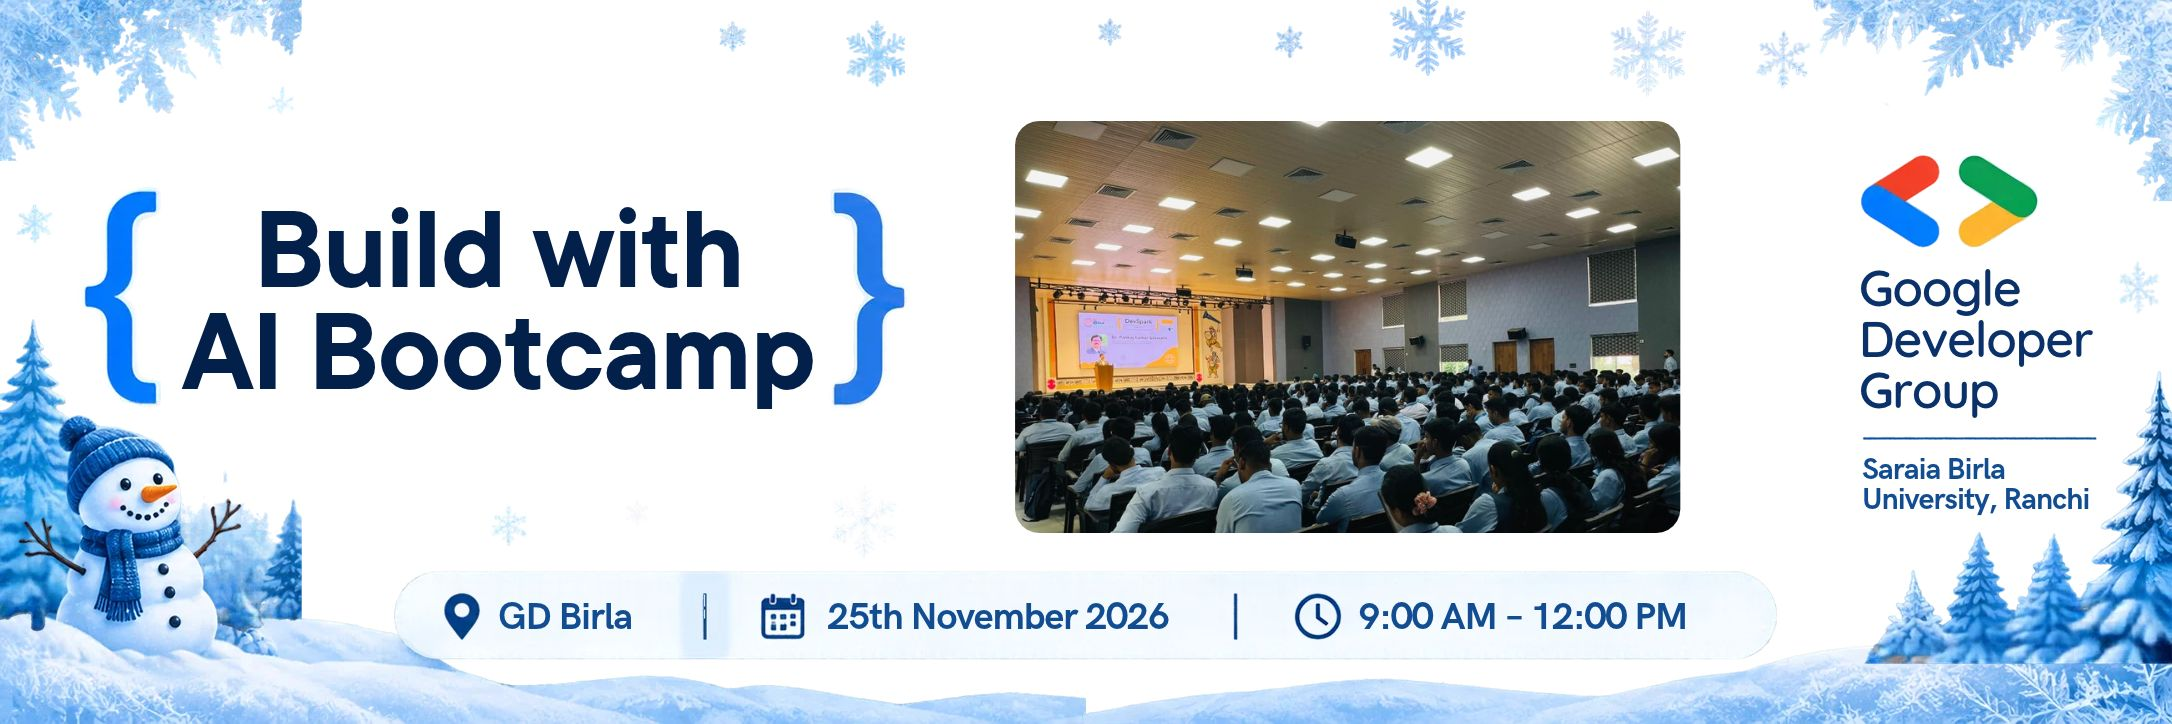
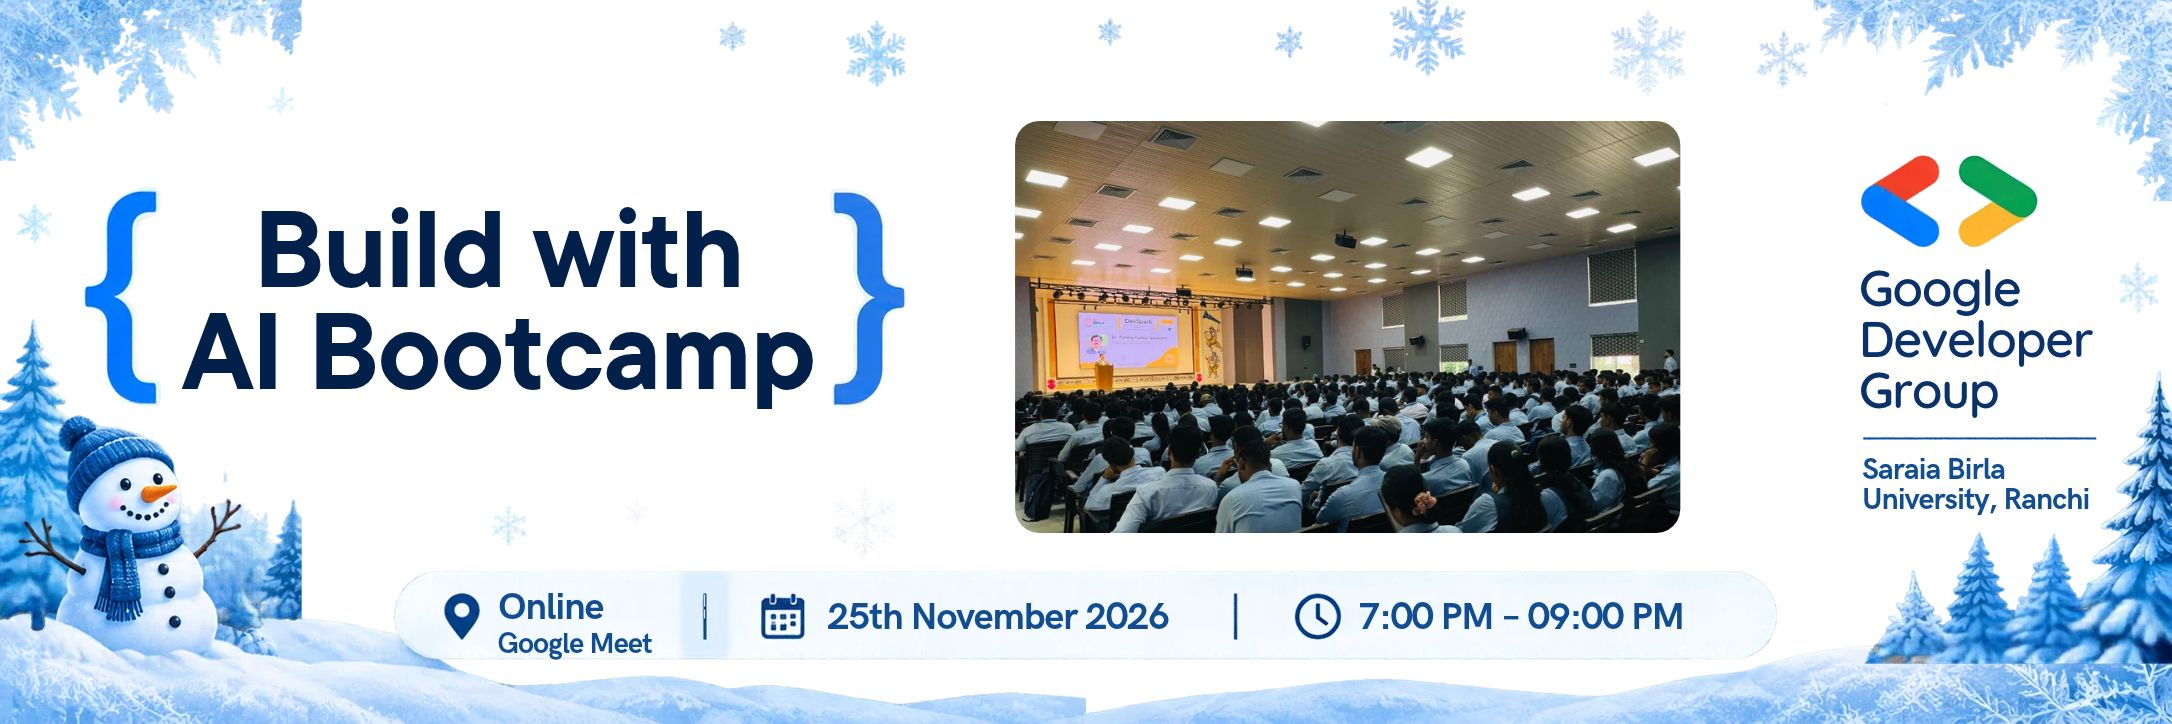
Laude ka GDG

Changed region(s): [[0.6169, 0.8204, 0.7712, 0.8812], [0.2159, 0.8204, 0.3085, 0.9116]]

diff --git a/src/components/events-section.tsx b/src/components/events-section.tsx
@@ -1,10 +1,9 @@
-
 "use client";
 
 import { useEffect, useRef, useState } from "react";
 import gsap from "gsap";
 import { ScrollTrigger } from "gsap/ScrollTrigger";
-import { ArrowUpRight, CalendarDays, Clock, MapPin, Image as ImageIcon } from "lucide-react";
+import { ArrowUpRight, CalendarDays, Clock, Video, Image as ImageIcon } from "lucide-react";
 
 const COMMUNITY_URL = "https://gdg.community.dev/gdg-on-campus-sarala-birla-university-ranchi-india/";
 
@@ -12,22 +11,24 @@ const COMMUNITY_URL = "https://gdg.community.dev/gdg-on-campus-sarala-birla-univ
 // When the image loads, the banner uses the image's OWN ratio (nothing is cropped).
 const PLACEHOLDER_RATIO = "3 / 1";
 
-// ---- EDIT YOUR EVENT DETAILS HERE (this is a demo event) ----
+// ---- EDIT YOUR EVENT DETAILS HERE ----
 const events = [
   {
-    id: "demo-event",
+    id: "build-with-ai-bootcamp",
     status: "Upcoming",
-    tag: "Bootcamp",
-    title: "Build with AI Bootcamp",
+    tag: "Online Bootcamp",
+    title: "Build With AI Bootcamp",
     description: "The 'Build With AI Bootcamp' at Sarala Birla University invites enthusiasts to explore Google Antigravity and AI Studio with Google Developer Experts. Participants will learn to autonomously plan, test, and deploy code. Enter curious and leave with a creation of your own design.",
+    weekday: "Wednesday",
     day: "25",
     month: "Nov",
     year: "2026",
-    time: "9:00 AM – 12:00 PM",
-    venue: "GD Birla, Sarala Birla University",
+    time: "7:00 PM – 9:00 PM",
+    timezone: "Asia/Kolkata (IST)",
+    venue: "Online · Google Meet",
     banner: "/events/demo-event-banner.jpg",
-    cta: "Register now",
-    link: COMMUNITY_URL,
+    cta: "Join on Google Meet",
+    link: "https://meet.google.com/ejv-stjd-ond",
   },
 ];
 
@@ -159,14 +160,17 @@ export function EventsSection() {
                 <div className="flex flex-col gap-4 md:items-end">
                   <div className="ev-meta flex items-center gap-3 text-sm">
                     <CalendarDays size={18} className="text-[#4285f4]" aria-hidden="true" />
-                    <span>{ev.day} {ev.month} {ev.year}</span>
+                    <span>{ev.weekday}, {ev.day} {ev.month} {ev.year}</span>
                   </div>
                   <div className="ev-meta flex items-center gap-3 text-sm">
                     <Clock size={18} className="text-[#34a853]" aria-hidden="true" />
-                    <span>{ev.time}</span>
+                    <span>
+                      {ev.time}
+                      <span className="block text-xs text-[var(--muted)] md:text-right">{ev.timezone}</span>
+                    </span>
                   </div>
                   <div className="ev-meta flex items-center gap-3 text-sm">
-                    <MapPin size={18} className="text-[#e5402f]" aria-hidden="true" />
+                    <Video size={18} className="text-[#e5402f]" aria-hidden="true" />
                     <span>{ev.venue}</span>
                   </div>
                   <a href={ev.link} target="_blank" rel="noreferrer" className="ev-cta button-primary mt-2 w-fit">
